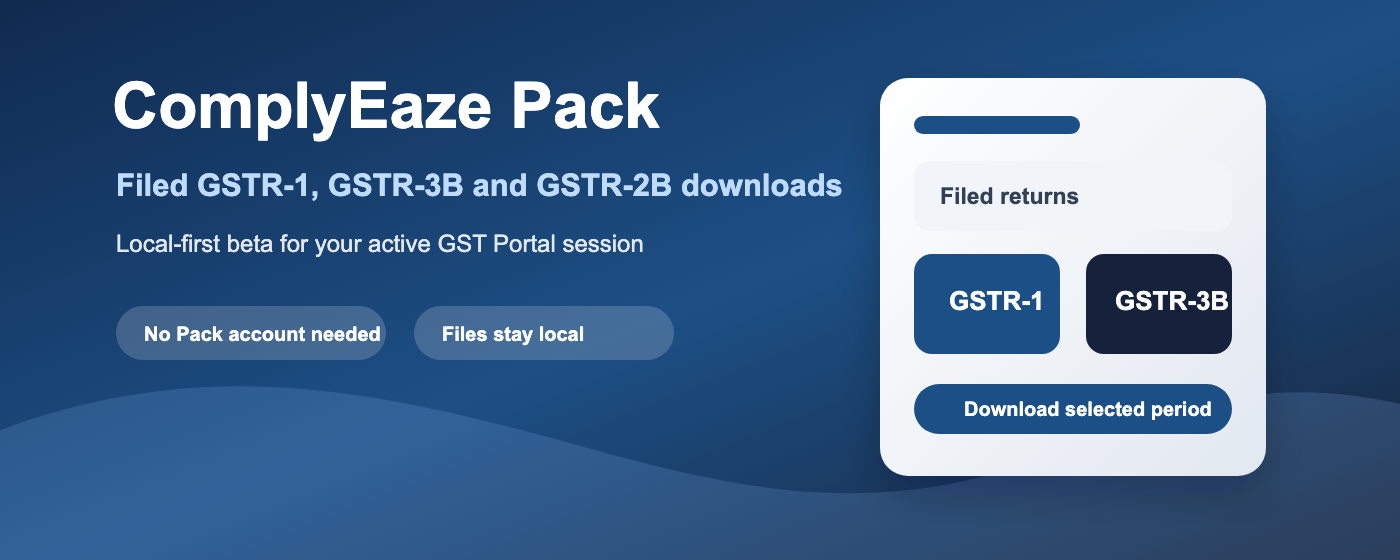
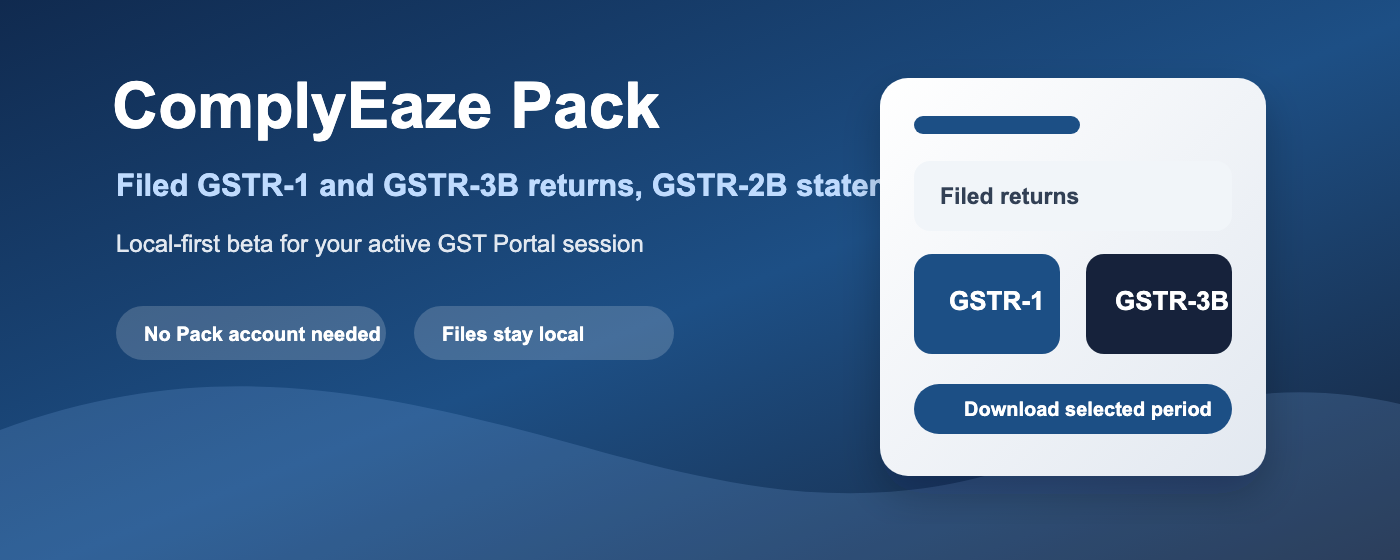
docs(store): finish the scope pass across README, readiness and the promo
Four more copies, all the same class.

The refreshed promo still led with 'Filed', classifying GSTR-2B as a filed return
against the capability table; it now names returns and statements separately.

My own replacement clause was false for the published package: saying unlisted
capability is 'source-build only' is wrong when v0.5.0 exposes Full year. The
listing now says the evidence for those claims is not recorded, which is the
actual reason and does not misdescribe the binary.

README still called GSTR-2B private source-build support in its opening
paragraph while its Status section described live GSTR-2B support, and three
further lines still said alpha. PUBLICATION_READINESS's own header still read
'Web Store alpha and source beta' while its decision record says v0.5.0 is a
published beta.

The checked-in promo export is regenerated with the SVG, which its guard requires.

Changed region(s): [[0.215, 0.3036, 0.645, 0.3643]]

diff --git a/README.md b/README.md
@@ -7,8 +7,8 @@ ComplyEaze Pack is a local-first Chrome MV3 browser extension for collecting
 compliance portal documents from an authorised browser session. V0 starts with
 filed GSTR-3B PDFs, filed GSTR-1 summary PDFs, and optional GSTR-1 e-invoice
 details Excel downloads from the GST Portal where the portal provides them. The
-current source also includes private GSTR-2B summary PDF and details Excel
-source-build support through the GST Portal's GSTR-2B page.
+current source also includes GSTR-2B summary PDF and details Excel downloads
+through the GST Portal's GSTR-2B page.
 
 V0 is intentionally narrow:
 
@@ -52,7 +52,7 @@ That superseded release's evidence chain is the fully recorded one. The current
 `v0.5.0` publication is maintainer-observed; see
 `docs/PUBLICATION_READINESS.md` for exactly which evidence fields remain
 unrecorded.
-Live manifest/index/exception-file generation is outside the current alpha.
+Live manifest/index/exception-file generation is outside the current release.
 Future store updates require the release gates in
 [docs/PUBLICATION_READINESS.md](docs/PUBLICATION_READINESS.md) and
 [docs/RELEASE.md](docs/RELEASE.md).
@@ -64,7 +64,7 @@ artifact, and recovery combinations. It is not a claim that every GST Portal
 period or format has authorised live evidence; those broader claims remain
 gated by the recorded publication evidence.
 
-Full fiscal year download is available in source-build alpha as a local
+Full fiscal year download is available in source builds as a local
 per-period ledger. It expands the selected financial year into eligible
 GSTR-3B, GSTR-1, or GSTR-2B periods and runs them one at a time through the
 single-period path. GSTR-2B full-year support uses the signed-in tab's

diff --git a/docs/chrome-web-store/listing.md b/docs/chrome-web-store/listing.md
@@ -79,7 +79,7 @@ ComplyEaze Pack helps authorised users download their own filed GST returns usin
 
 Files are saved by Chrome to the user's device. Pack does not require a Pack or ComplyEaze account. It does not ask for or store GST Portal credentials, OTPs, CAPTCHA responses, cookies, or session tokens, and it does not upload GST documents or return contents to ComplyEaze.
 
-Store-supported use is a single return period at a time. The package contains further capability that this listing does not claim; anything not listed above is source-build only until its release evidence is recorded.
+Store-supported use is a single return period at a time. The package contains further capability that this listing does not claim, because the release evidence for those claims is not yet recorded.
 
 Pack's content script runs only on the four declared GST Portal hosts. When a supported page loads, it reads page context locally so Pack can identify eligible workflows; artifact capture and downloads start only after an explicit user action. Pack keeps limited redacted recovery state locally so interrupted work does not retry blindly. Temporary artifact bytes may be staged in browser-local OPFS for explicit capture or ZIP operations. Pack normally removes those bytes after confirmed export or explicit discard; if local cleanup fails, it retains them with a cleanup-pending status until a later cleanup attempt succeeds.
 

diff --git a/docs/PUBLICATION_READINESS.md b/docs/PUBLICATION_READINESS.md
@@ -1,7 +1,7 @@
 # Publication Readiness
 
 This checklist tracks what remains while ComplyEaze Pack is a public V0 Chrome
-Web Store alpha and source beta, and before it can make broader public,
+Web Store beta, and before it can make broader public,
 durable full-year, or stable-release claims.
 
 ## Current Decision
